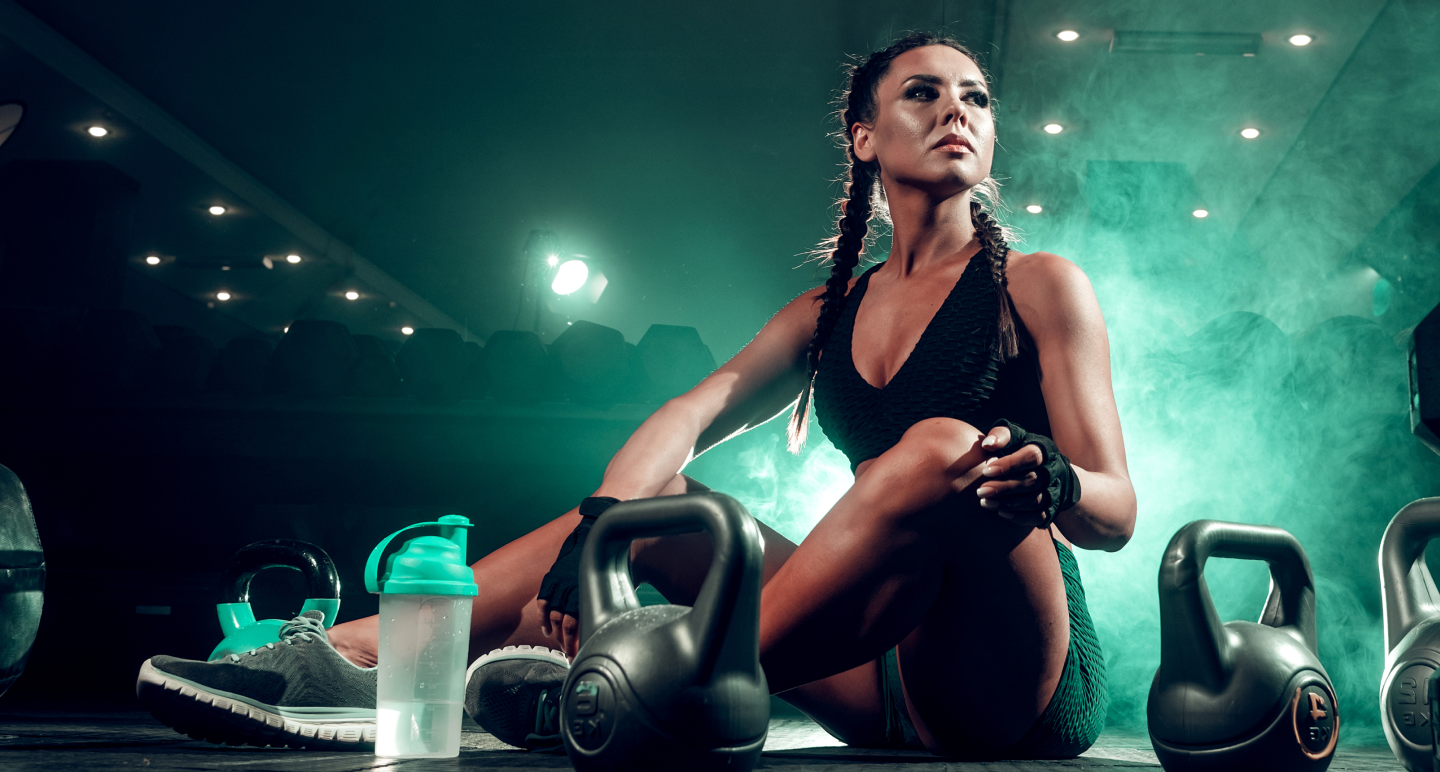
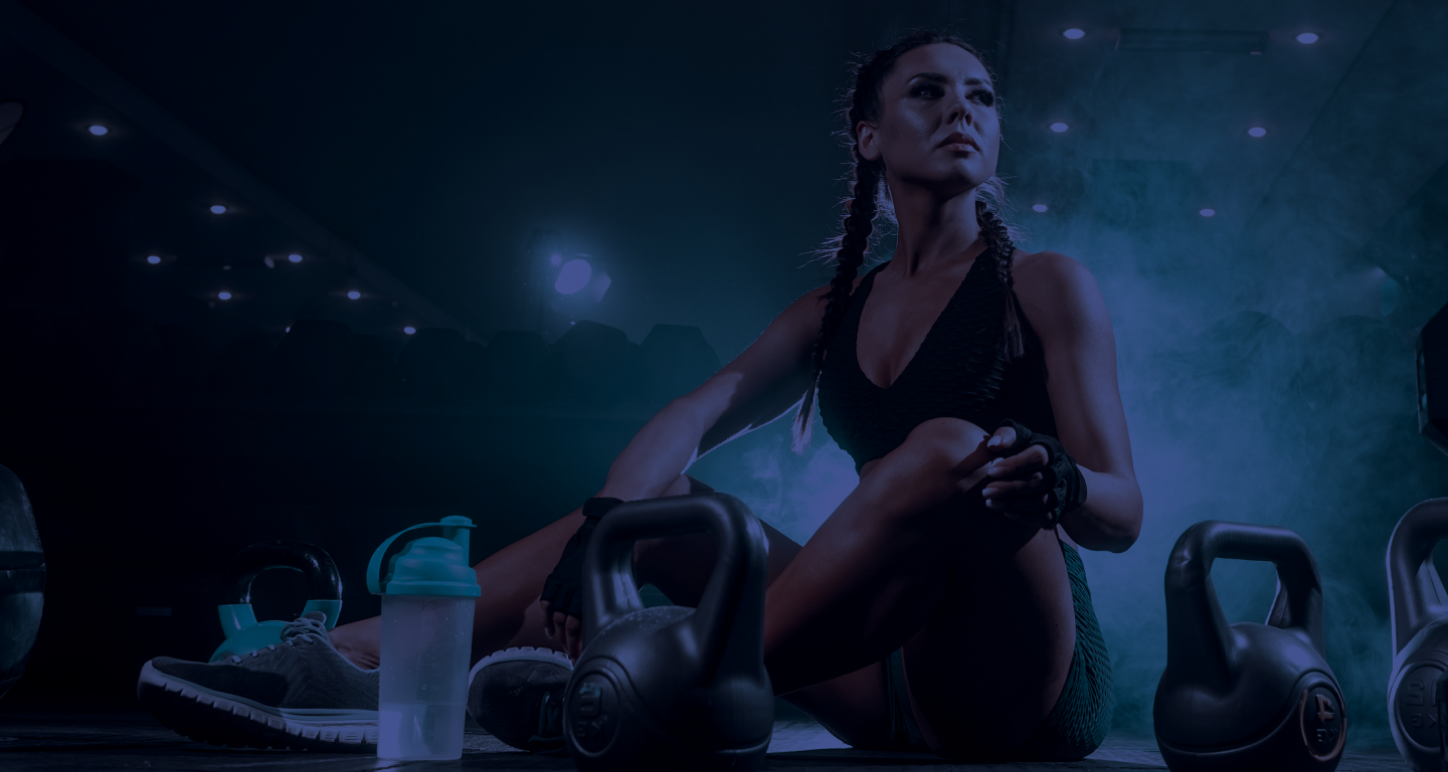
feat: hero

diff --git a/src/components/Hero/index.tsx b/src/components/Hero/index.tsx
@@ -1,26 +1,28 @@
 import { Button } from 'components/Button'
 
 
+const img = '/background.png'
+
 export const Hero = () => {
   return (
     <section
       role="hero"
-      className="flex h-[100vh] w-full flex-col items-start justify-center p-[2rem] md:p-[9.375rem] "
+      data-testid="background"
+      className="flex h-[100vh] w-full flex-col items-start justify-center p-[2rem] bg-blend-overlay md:p-[9.375rem] "
       style={{
-        background:
-          "linear-gradient(0deg, rgba(0, 0, 0, 0.5), rgba(0, 0, 0, 0.2)), url('/background.png')",
+        background: `url(${img})`,
         backgroundRepeat: 'no-repeat',
         backgroundPosition: 'center',
-        backgroundBlendMode: 'overlay',
         objectFit: 'contain',
       }}
     >
-      <div className="max-w-[27.75rem]">
-        <p className="mb-5 text-2xl font-normal text-white">
+      <div className="flex w-[27.75rem] flex-col items-center justify-center md:items-start md:justify-start  ">
+        <p className="mb-5 text-center text-2xl font-normal text-white md:text-left ">
           Seu treino personalizado, na palma da sua mão, a qualquer hora e
           lugar.
         </p>
-        <div>
+
+        <div className="flex flex-col last:items-center">
           <Button>EU QUERO</Button>
           <p className="mt-2 text-sm text-[#CBC8C8]">
             Experimente 7 dias Grátis

diff --git a/src/components/Hero/test.tsx b/src/components/Hero/test.tsx
@@ -12,4 +12,18 @@ describe('<Hero />', () => {
 
     expect(heading).toBeInTheDocument()
   })
+
+   it('should have the image prop', () => {
+     render(<Hero />)
+     const image = getByRole('hero', { name: '' })
+
+     expect(image).toHaveStyle('background: url(/background.png)')
+   })
+
+  
+  it('should match snapshot', () => {
+    const { container } = render(<Hero />)
+
+    expect(container).toMatchSnapshot()
+  })
 })

diff --git a/src/components/Hero/stories.tsx b/src/components/Hero/stories.tsx
@@ -12,7 +12,7 @@ export default {
   },
 } as ComponentMeta<typeof Hero>
 
-const Template: ComponentStory<typeof Hero> = (args) => <Hero {...args} />
+const Template: ComponentStory<typeof Hero> = () => <Hero />
 
 export const Default = Template.bind({})
 Default.args = {}
